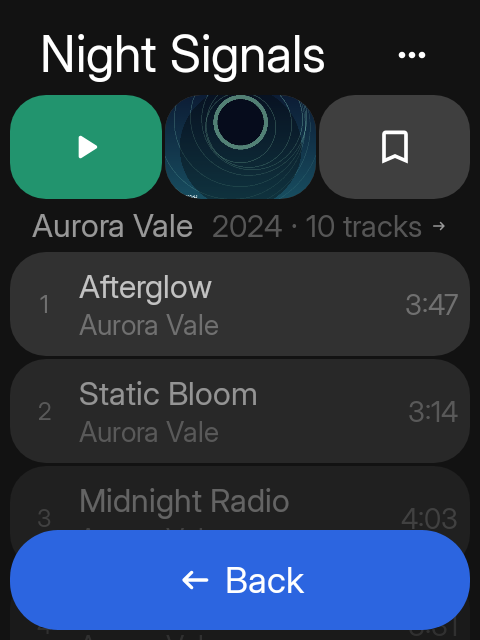
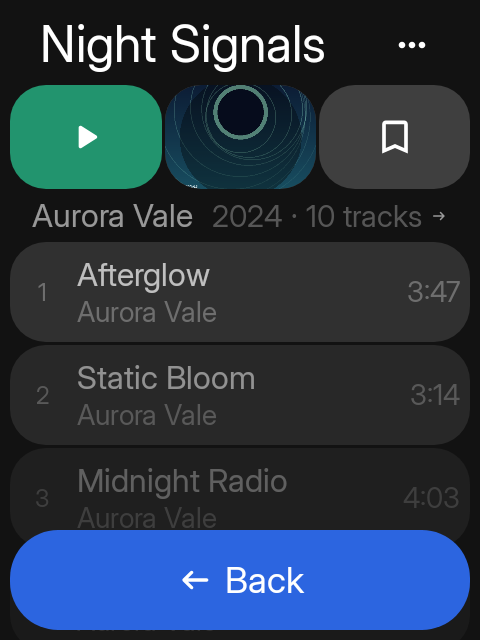
feat(rows): size a media row to four and a quarter a screen
A row's height is a budget question, so solve it for the fraction of the next
row that should show instead of taking a token. With the compact chrome's
435 dp body (640 - 10 pagePadding - 65 header - 10 pageGap - 120 bar, gap and
bottom padding), Sidekit's 3 dp between rows, n whole rows and f of the next
one, `body = n (h + 3) + f h`:

- spacious: (435 - 12) / 4.25 = 99.53, so 100 dp: 4 x 103 = 412 with 23 dp of
  the fifth row peeking. At the 104 dp token the fold sat exactly on the fourth
  row's bottom edge (4 x 104 + 3 x 3 = 425), so the list read as complete.
- compact rows: (435 - 15) / 5.25 = 80 dp exactly: 5 x 83 = 415 with 20 dp of
  the sixth.

Both are whole dp because the canvas pins 1 dp to 1 px: a 99.5 dp row lays out
at 100 and would only have hidden that the quarter is unreachable in pixels.
Re-derive them if the chrome moves again; they assume the 65 dp header.

The cover follows the row at height - 2 x inset, which also keeps it concentric
with the item's 36 dp corner: 80 dp on a 10 dp inset, and 64 dp on 8 dp for the
compact row. The two-line block gives back what it can, since colour, weight and
size already separate the lines: 39/34 leading and a 2 dp gap become 37/32 and 1,
the compact 27/33 and 1 become 27/31 and 0.

CompactRowsTest now asserts the fractions from the measured row, not just the
heights, so a chrome change cannot quietly turn the peek into a fifth of a row.
Screenshots re-recorded against the new header.

diff --git a/app/src/main/java/io/github/manuelrtsch/sidetrack/NowPlayingTile.kt b/app/src/main/java/io/github/manuelrtsch/sidetrack/NowPlayingTile.kt
@@ -23,7 +23,6 @@ import androidx.compose.foundation.shape.RoundedCornerShape
 import androidx.compose.runtime.Composable
 import androidx.compose.runtime.getValue
 import androidx.compose.runtime.remember
-import androidx.compose.runtime.setValue
 import androidx.compose.ui.Alignment
 import androidx.compose.ui.Modifier
 import androidx.compose.ui.draw.clip
@@ -58,6 +57,16 @@ import kotlin.math.PI
 import kotlin.math.sin
 import kotlinx.coroutines.flow.StateFlow
 
+/**
+ * The tile band on Home keeps the 104 dp `SidekitTheme.spacing.itemHeight` it shares with
+ * [SidekitItemRow], so it also keeps the 12 dp inset and the 24 dp corner that go with that height.
+ * Media rows below it are 100 dp with a 10 dp inset ([rememberMediaRowMetrics]); the band is a
+ * deliberate heavier element, not a fifth row, which is why it does not follow them even though its
+ * cover happens to be the same 80 dp.
+ */
+private val TileArtworkSize = 80.dp
+private val TileContentInset = 12.dp
+
 @Composable
 fun NowPlayingTile(
     current: MediaItem?,
@@ -67,18 +76,66 @@ fun NowPlayingTile(
     modifier: Modifier = Modifier
 ) {
     val colors = SidekitTheme.colors
+    SidekitTile(modifier, onClick = onClick, onClickLabel = "Now playing") {
+        Row(
+            Modifier.fillMaxWidth().padding(horizontal = TileContentInset),
+            verticalAlignment = Alignment.CenterVertically,
+            horizontalArrangement = Arrangement.spacedBy(13.dp)
+        ) {
+            if (current == null) {
+                Box(Modifier.size(TileArtworkSize).clip(artworkShapeFor(TileContentInset)).background(colors.surfaceA2), contentAlignment = Alignment.Center) {
+                    SidekitIconImage(SidekitIcon.MusicNote2, size = 36.dp)
+                }
+            } else {
+                Cover(current.artRes, Modifier.size(TileArtworkSize), shape = artworkShapeFor(TileContentInset), artUrl = current.artUrl, requestSize = TileArtworkSize)
+            }
+            Column(Modifier.weight(1f), verticalArrangement = Arrangement.spacedBy(1.dp)) {
+                // The overline carries the state, so the title keeps the full width and never
+                // competes with a trailing label.
+                NowPlayingOverline(hasCurrent = current != null, transport, sleepTimer)
+                SidekitText(
+                    current?.title ?: "Pick a track",
+                    style = SidekitTheme.typography.bodySmall,
+                    maxLines = 2
+                )
+            }
+        }
+    }
+}
+
+/**
+ * The tile's eyebrow: the play/pause glyph and the one line of state text.
+ *
+ * The sleep timer is collected here rather than in [NowPlayingTile] so its once-a-minute countdown
+ * only recomposes this row: the artwork and title stay put while the timer ticks. It also takes
+ * only whether there is a current item, not the item itself, so changing track does not rebuild
+ * the eyebrow when its own state is unchanged. [Transport.Playing] deliberately has no motion and
+ * no glyph of its own; a permanent record turn here would keep the resting Home screen redrawing
+ * every frame and would read as loading rather than listening.
+ */
+@Composable
+private fun NowPlayingOverline(
+    hasCurrent: Boolean,
+    transport: Transport,
+    sleepTimer: StateFlow<SleepTimerState>
+) {
+    val colors = SidekitTheme.colors
     val timer by sleepTimer.collectAsStateWithLifecycle()
     val timerLabel = timer.tileText()
     val countdown = timer as? SleepTimerState.Countdown
     // One overline slot, ranked: the sleep timer's outcome explains the pause, a frozen or live
     // timer replaces the playing label, and the icon beside the text carries playback state so the
     // text itself can stay inside the tile's one-line budget.
-    val starting = transport == Transport.Starting
-    val paused = current != null && (transport == Transport.Paused || transport == Transport.Idle)
+    //
+    // Buffering is still a start in the user's terms: the source is being fetched and no audio is
+    // running, so it keeps the same arc and the same label as Starting. Playing is the only phase
+    // with nothing to wait for, and the static label is enough there.
+    val starting = transport == Transport.Starting || transport == Transport.Buffering
+    val paused = hasCurrent && (transport == Transport.Paused || transport == Transport.Idle)
     val overlineIcon: SidekitIcon?
     val overlineLabel: String
     when {
-        current == null -> {
+        !hasCurrent -> {
             overlineIcon = null
             overlineLabel = "NOTHING PLAYING"
         }
@@ -129,51 +186,27 @@ fun NowPlayingTile(
             overlineLabel = "NOW PLAYING"
         }
     }
-    SidekitTile(modifier, onClick = onClick, onClickLabel = "Now playing") {
-        Row(
-            Modifier.fillMaxWidth().padding(horizontal = ListItemContentInset),
-            verticalAlignment = Alignment.CenterVertically,
-            horizontalArrangement = Arrangement.spacedBy(13.dp)
-        ) {
-            if (current == null) {
-                Box(Modifier.size(ListArtworkSize).clip(artworkShapeFor(ListItemContentInset)).background(colors.surfaceA2), contentAlignment = Alignment.Center) {
-                    SidekitIconImage(SidekitIcon.MusicNote2, size = 36.dp)
-                }
-            } else {
-                Cover(current.artRes, Modifier.size(ListArtworkSize), shape = artworkShapeFor(ListItemContentInset), artUrl = current.artUrl, requestSize = ListArtworkSize)
-            }
-            Column(Modifier.weight(1f), verticalArrangement = Arrangement.spacedBy(1.dp)) {
-                // The overline carries the state, so the title keeps the full width and never
-                // competes with a trailing label.
-                Row(
-                    verticalAlignment = Alignment.CenterVertically,
-                    horizontalArrangement = Arrangement.spacedBy(6.dp)
-                ) {
-                    if (starting) {
-                        VinylSpinner(
-                            describeAs = "Starting playback",
-                            diameter = 24.dp,
-                            color = colors.surfaceA6
-                        )
-                    } else {
-                        overlineIcon?.let {
-                            SidekitIconImage(it, size = 24.dp, tint = colors.surfaceA6)
-                        }
-                    }
-                    SidekitText(
-                        overlineLabel,
-                        style = SidekitTheme.typography.small,
-                        color = colors.surfaceA6,
-                        maxLines = 1
-                    )
-                }
-                SidekitText(
-                    current?.title ?: "Pick a track",
-                    style = SidekitTheme.typography.bodySmall,
-                    maxLines = 2
-                )
+    Row(
+        verticalAlignment = Alignment.CenterVertically,
+        horizontalArrangement = Arrangement.spacedBy(6.dp)
+    ) {
+        if (starting) {
+            VinylSpinner(
+                describeAs = "Starting playback",
+                diameter = 24.dp,
+                color = colors.surfaceA6
+            )
+        } else {
+            overlineIcon?.let {
+                SidekitIconImage(it, size = 24.dp, tint = colors.surfaceA6)
             }
         }
+        SidekitText(
+            overlineLabel,
+            style = SidekitTheme.typography.small,
+            color = colors.surfaceA6,
+            maxLines = 1
+        )
     }
 }
 

diff --git a/app/src/main/java/io/github/manuelrtsch/sidetrack/MediaRowMetrics.kt b/app/src/main/java/io/github/manuelrtsch/sidetrack/MediaRowMetrics.kt
@@ -33,25 +33,57 @@ private val ItemCornerRadius = 36.dp
 
 /**
  * The cover's corner radius when it sits [inset] inside a list item: the item radius minus that
- * inset. Only concentric when the inset is the same on every side, which is why the rows now keep
- * their artwork inset equal to the vertical one: 80 on 104 leaves 12 all round (radius 24), and
- * the compact 64 on 82 leaves 9 (radius 27).
+ * inset. Only concentric when the inset is the same on every side, which is why the rows keep
+ * their artwork inset equal to the vertical one: 80 on 100 leaves 10 all round (radius 26), and
+ * the compact 64 on 80 leaves 8 (radius 28).
  */
 fun artworkShapeFor(inset: Dp): RoundedCornerShape = RoundedCornerShape((ItemCornerRadius - inset).coerceAtLeast(0.dp))
 
-/** The dense layout shrinks a row by about a fifth: 104 dp rows become 82 dp. */
-private val CompactRowHeight = 82.dp
+/**
+ * A spacious row is 100 dp, not the 104 dp `SidekitTheme.spacing.itemHeight`, because a row's
+ * height is a budget question on the fixed 480 x 640 canvas. The body between the header and the
+ * action bar is 435 dp in the default compact chrome (640 - 10 pagePadding - 65 header - 10
+ * pageGap - 120 bar, gap and bottom padding), and Sidekit's lists space rows by 3 dp between and
+ * not after. Sidekit's own 104 dp rows filled the older 425 dp body exactly (4 x 104 + 3 x 3),
+ * which read as a list that ended at the fold instead of one that scrolls.
+ *
+ * The rule the rows are solved for: four whole rows plus a quarter of the fifth, so the cover's top
+ * edge says "there is more" after four rows a screen. With n whole rows and f of the next one,
+ * `body = n (h + 3) + f h`, so `h = (body - 3n) / (n + f)`:
+ *
+ * - spacious: `(435 - 12) / 4.25 = 99.53`, therefore 100 dp: 4 x 103 = 412 and 23 dp of the fifth
+ *   row peeking, a shade under the quarter;
+ * - compact: `(435 - 15) / 5.25 = 80` exactly: 5 x 83 = 415 and 20 dp of the sixth peeking.
+ *
+ * Both heights are whole dp on purpose. The canvas pins 1 dp to 1 pixel (`SidekitCanvas`), so a
+ * 99.5 dp row does not exist: it lays out at 100 and would only have hidden the fact that the
+ * quarter is not reachable with whole pixels. 23 of 100 is as close as the budget allows.
+ *
+ * Re-derive both numbers if the chrome changes again: they assume the compact chrome's 65 dp
+ * header. Sidekit's token stays at 104 for every other app and for the tile band on Home.
+ *
+ * Nothing horizontal follows this scale: the library and search category squares are bound by the
+ * page width and keep one size in both modes (see [categoryCell]).
+ */
+private val SpaciousRowHeight = 100.dp
+private val SpaciousArtworkSize = 80.dp
+
+/**
+ * The dense layout buys the fifth row outright: 80 dp rows on an 83 dp pitch show five rows plus a
+ * quarter of the sixth (435 = 5 x 83 + 20).
+ */
+private val CompactRowHeight = 80.dp
 private val CompactArtworkSize = 64.dp
 
 /**
  * The artwork's margin inside a row, and so the row's content inset. Equal on every side, so the
- * cover's radius is exactly the item's 36 minus the gap: 80 on 104 leaves 12 all round (radius
- * 24), the compact 64 on 82 leaves 9 (radius 27).
+ * cover's radius is exactly the item's 36 minus the gap: 80 on 100 leaves 10 all round (radius
+ * 26), the compact 64 on 80 leaves 8 (radius 28).
  */
-internal val ListItemContentInset = 12.dp
-private val CompactItemContentInset = 9.dp
+internal val ListItemContentInset = 10.dp
+private val CompactItemContentInset = 8.dp
 private val CompactContentGap = 10.dp
-private val CompactTextGap = 1.dp
+private val CompactTextGap = 0.dp
 private val CompactTrackNumberWidth = 40.dp
 
 /**
@@ -78,8 +110,9 @@ data class MediaRowMetrics(
 fun rememberMediaRowMetrics(): MediaRowMetrics {
     val compact = LocalCompactRows.current
     val typography = SidekitTheme.typography
-    val spacing = SidekitTheme.spacing
-    return remember(compact, typography, spacing) {
+    // A row's height is its own budget (see [SpaciousRowHeight]) rather than a spacing token, so
+    // the metrics no longer follow [SidekitTheme.spacing] and do not need to re-derive on it.
+    return remember(compact, typography) {
         if (compact) {
             MediaRowMetrics(
                 height = CompactRowHeight,
@@ -90,22 +123,26 @@ fun rememberMediaRowMetrics(): MediaRowMetrics {
                 textGap = CompactTextGap,
                 trackNumberWidth = CompactTrackNumberWidth,
                 // 32 -> 27 and 28 -> 24: the two-line block still reads as a title over a
-                // subtitle inside the shorter row without dropping to the tiny label size.
-                titleStyle = typography.bodySmall.copy(fontSize = 27.sp, lineHeight = 33.sp),
+                // subtitle inside the shorter row without dropping to the tiny label size. The
+                // 31 leading and the zero gap are the same tightening the spacious row got, and
+                // keep the block at 60 so the 64 cover stays the taller child.
+                titleStyle = typography.bodySmall.copy(fontSize = 27.sp, lineHeight = 31.sp),
                 secondaryStyle = typography.small,
                 trackNumberStyle = typography.tiny
             )
         } else {
             MediaRowMetrics(
-                height = spacing.itemHeight,
-                artworkSize = ListArtworkSize,
+                height = SpaciousRowHeight,
+                artworkSize = SpaciousArtworkSize,
                 artworkShape = artworkShapeFor(ListItemContentInset),
                 horizontalPadding = ListItemContentInset,
                 contentGap = 13.dp,
-                textGap = 2.dp,
+                textGap = 1.dp,
                 trackNumberWidth = 44.dp,
-                titleStyle = typography.bodySmall,
-                secondaryStyle = typography.caption,
+                // Colour, weight and size already separate the two lines, so their leading gives
+                // back the 3 dp each the shorter row needs: 37 + 1 + 32 = 70 against the 77 cover.
+                titleStyle = typography.bodySmall.copy(lineHeight = 37.sp),
+                secondaryStyle = typography.caption.copy(lineHeight = 32.sp),
                 trackNumberStyle = typography.small
             )
         }

diff --git a/app/src/test/java/io/github/manuelrtsch/sidetrack/CompactRowsTest.kt b/app/src/test/java/io/github/manuelrtsch/sidetrack/CompactRowsTest.kt
@@ -18,6 +18,11 @@ import org.robolectric.annotation.GraphicsMode
  * The compact-rows setting has to change the measured row, not just the artwork or the type: the
  * point is five rows where four fit. This reads the composed row's bounds so a Sidekit tile that
  * keeps its own fixed height cannot pass unnoticed.
+ *
+ * The row heights are solved for a fixed fraction of the *next* row showing: four and a quarter in
+ * the default layout, five and a quarter compact. The fractions are asserted here rather than left
+ * in the comments, so a chrome change (the header lost 10 dp when it was fitted to one title line)
+ * cannot quietly turn the affordance into a fifth of a row or a whole one.
  */
 @RunWith(AndroidJUnit4::class)
 @GraphicsMode(GraphicsMode.Mode.NATIVE)
@@ -25,6 +30,9 @@ class CompactRowsTest {
     @get:Rule val compose = createComposeRule()
 
     private val track = MockSpotifyDataSource.albums.first().tracks.first()
+
+    /** The predicate for `rememberMediaRowMetrics`, driven from the real row so it cannot drift. */
+    private val rowGap = 3f
 
     private fun rowHeight(compact: Boolean): Float {
         compose.setContent {
@@ -56,12 +64,33 @@ class CompactRowsTest {
     }
 
     @Test
-    fun `the default row keeps its four-to-a-screen height`() {
-        assertEquals(104f, rowHeight(compact = false), 0.5f)
+    fun `the default row shows four and a quarter`() {
+        // 435 / 103 pitch = 4 rows plus 23 dp of the fifth, so the list no longer ends at the fold.
+        // No tolerance: 1 dp is 1 px on the canvas, so the height is a whole number by construction
+        // and a fractional constant (99.5) would round here instead of being caught.
+        assertEquals(100f, rowHeight(compact = false), 0.001f)
     }
 
     @Test
-    fun `a compact row leaves room for a fifth`() {
-        assertEquals(82f, rowHeight(compact = true), 0.5f)
+    fun `a compact row leaves room for five and a quarter`() {
+        // 435 / 83 pitch = 5 rows plus 20 dp of the sixth.
+        assertEquals(80f, rowHeight(compact = true), 0.001f)
+    }
+
+    @Test
+    fun `four whole rows and a quarter fit the body`() {
+        // 4.23 rather than 4.25: 435 - 12 does not divide by 4.25 into whole pixels.
+        assertEquals(4.23f, visibleRows(body = 435f, height = rowHeight(compact = false), whole = 4), 0.01f)
+    }
+
+    @Test
+    fun `five whole rows and a quarter fit the body`() {
+        assertEquals(5.25f, visibleRows(body = 435f, height = rowHeight(compact = true), whole = 5), 0.01f)
+    }
+
+    /** Whole rows plus the fraction of the next one that the body still shows. */
+    private fun visibleRows(body: Float, height: Float, whole: Int): Float {
+        val peek = body - whole * (height + rowGap)
+        return whole + peek / height
     }
 }

diff --git a/app/src/main/java/io/github/manuelrtsch/sidetrack/Artwork.kt b/app/src/main/java/io/github/manuelrtsch/sidetrack/Artwork.kt
@@ -31,8 +31,10 @@ import io.github.manuelrtsch.sidetrack.data.ArtworkAccess
 import io.github.manuelrtsch.sidetrack.data.ArtworkImages
 
 /**
- * Artwork shown beside text inside a 104 dp list tile. 80 dp leaves a 12 dp margin on every side
- * and gives the cover a little more presence than the two-line text block next to it.
+ * Artwork shown beside text in a media row. 80 dp on a 100 dp row leaves a 10 dp margin on every
+ * side (see [rememberMediaRowMetrics]) and still gives the cover more presence than the two-line
+ * text block next to it. The 104 dp tile band on Home has its own copy at the same size; see
+ * `NowPlayingTile`.
  */
 internal val ListArtworkSize = 80.dp
 
